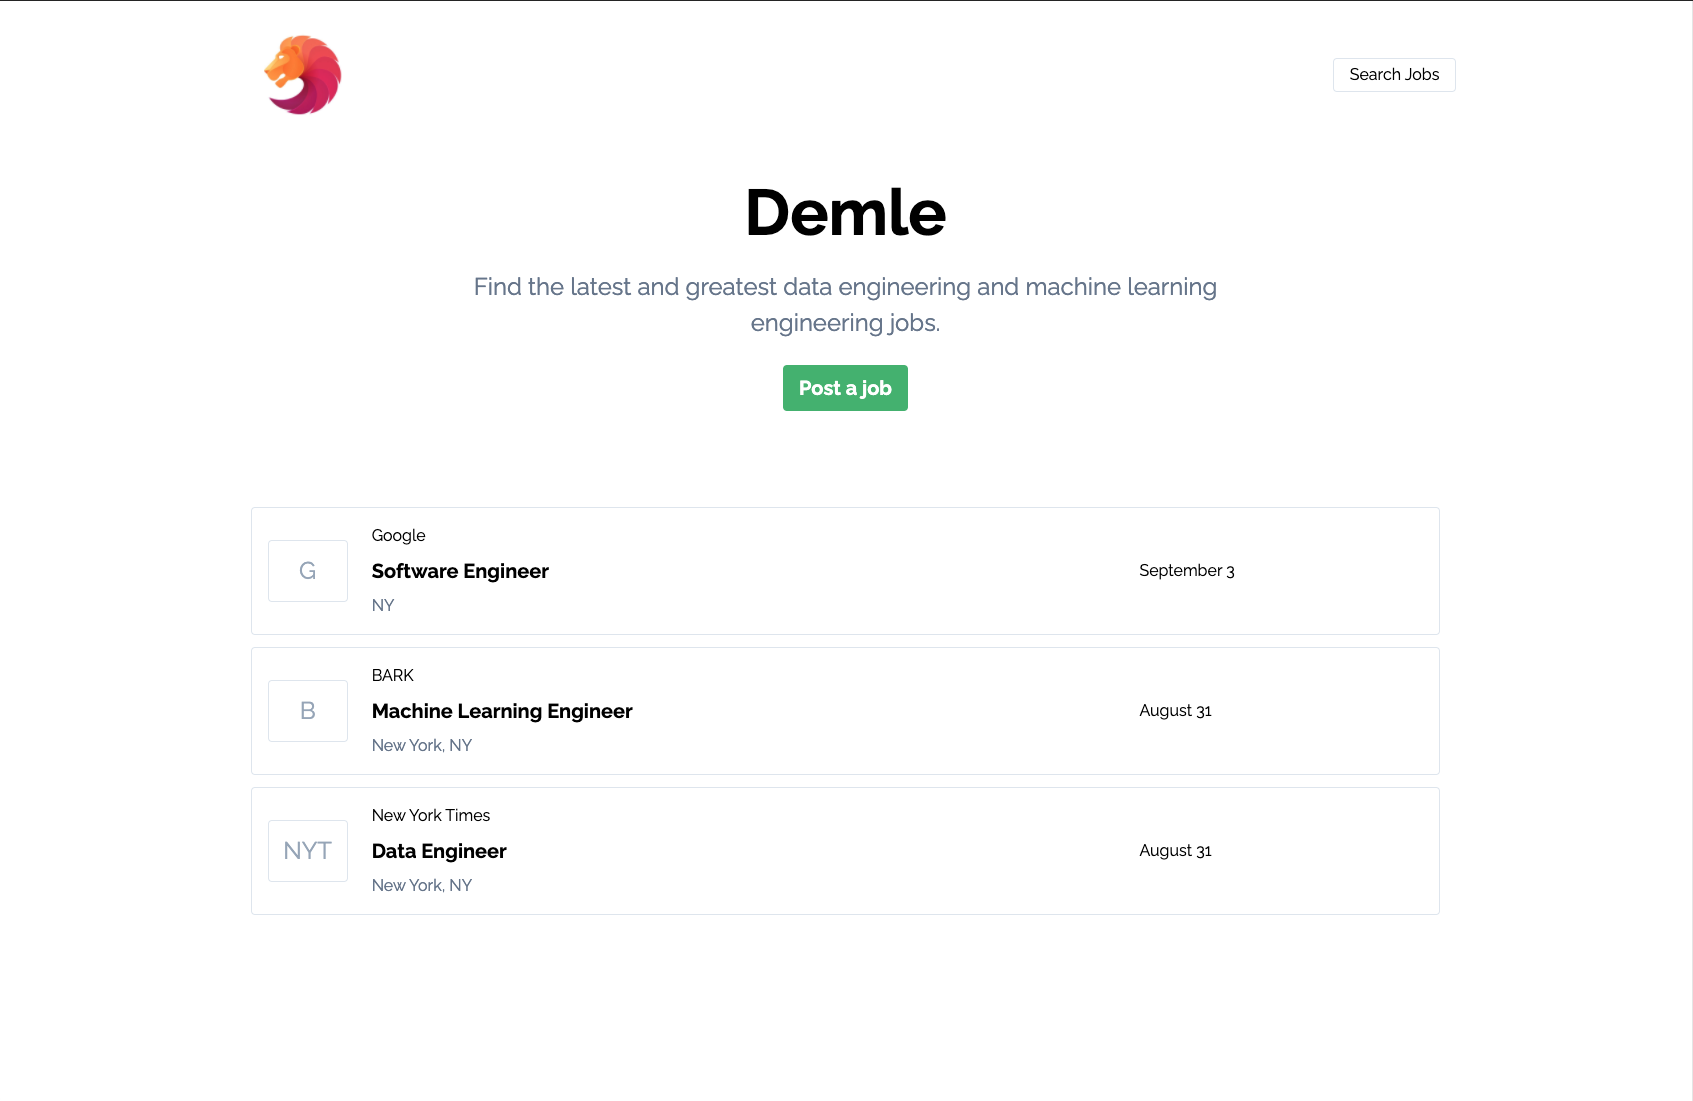
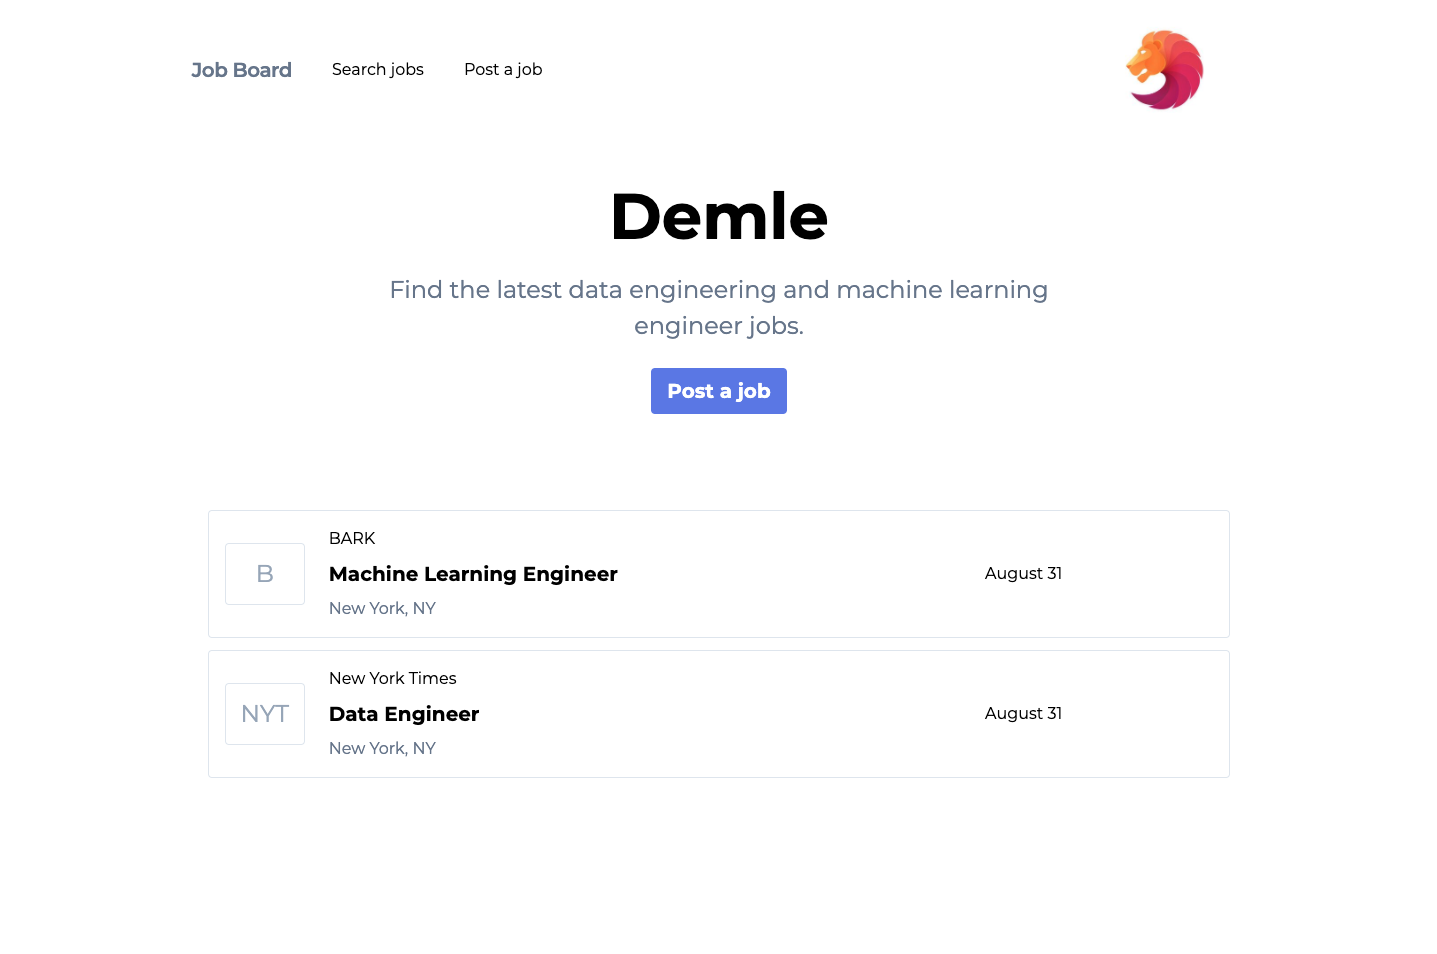
Change background colors

diff --git a/server.rb b/server.rb
@@ -627,6 +627,7 @@ post '/register' do
       org_bio: params['org-bio'],
       font_family: '',
       accent_color: 'blue',
+      bg_color: 'white',
       logo: '',
       domain: '',
       google_analytics: '',
@@ -898,6 +899,7 @@ patch '/admin/:account/settings/update' do
   @account.google_analytics = params["google-analytics"]
   @account.font_family = params["font_family"]
   @account.accent_color = params["accent_color"]
+  @account.bg_color = params['bg_color']
   @account.job_expiry = params["job_expiry"].to_i
   @account.posting_offer = params["posting_offer"]
 
@@ -937,6 +939,21 @@ patch '/admin/:account/settings/logo' do
       store[account_slug] = @account
     end
 
+  end
+
+  redirect "/admin/#{account_slug}/settings"
+end
+
+# Remove account logo
+delete '/admin/:account/settings/logo' do
+  account_slug = params['account']
+
+  @account.logo = ''
+
+  # save settings
+  store = YAML::Store.new "./data/accounts.store"
+  store.transaction do
+    store[account_slug] = @account
   end
 
   redirect "/admin/#{account_slug}/settings"
